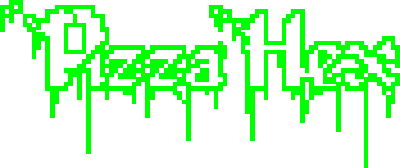
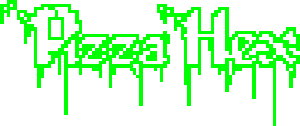
add title scene

Changed region(s): [[0.0, 0.0, 0.69, 0.9286], [0.66, 0.0476, 1.0, 0.7857]]

diff --git a/titleScene.js b/titleScene.js
@@ -9,14 +9,12 @@ class TitleScene extends Phaser.Scene {
 
     preload() {
         this.load.image('title', 'assets/title.png');
+        this.load.image('start', 'assets/start.png');
     }
 
     create() {
-        // const bg = this.add.sprite(407, 184, 'title');
-        // title.setOrigin(100, 100);
-        this.add.image(400, 250, 'title');
-
-        const text = this.add.text(350, 350, 'Play Game!');
+        this.add.image(390, 250, 'title');
+        const text = this.add.image(400, 350, 'start');
         text.setInteractive({useHandCursor: true});
         text.on('pointerdown', () => this.clickButton());
     }
